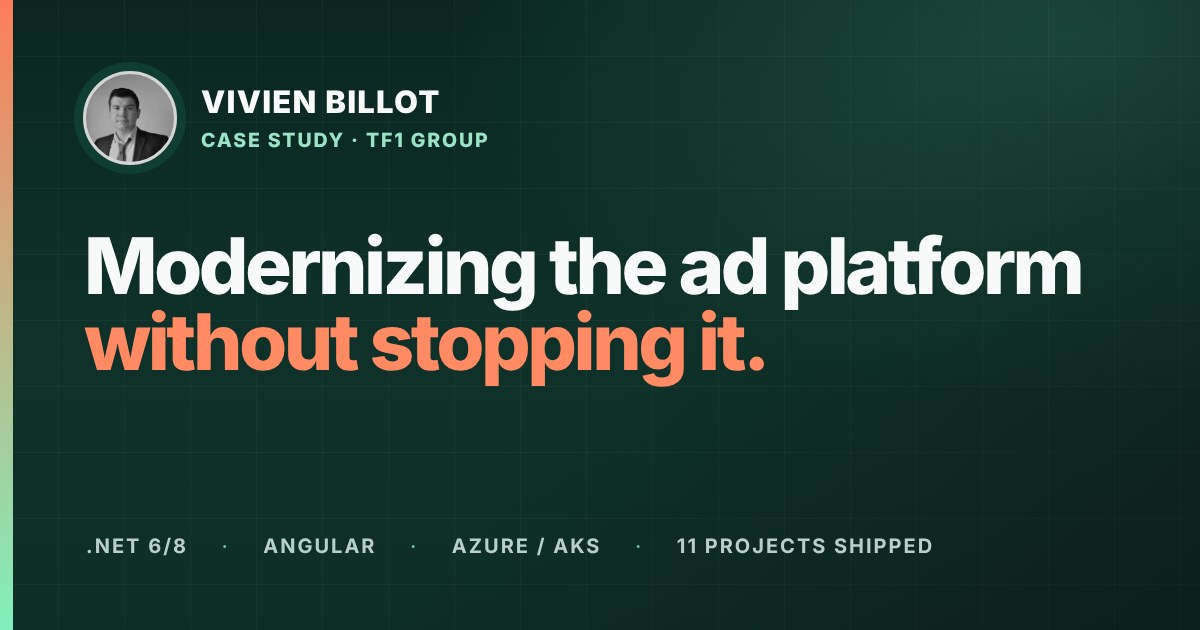
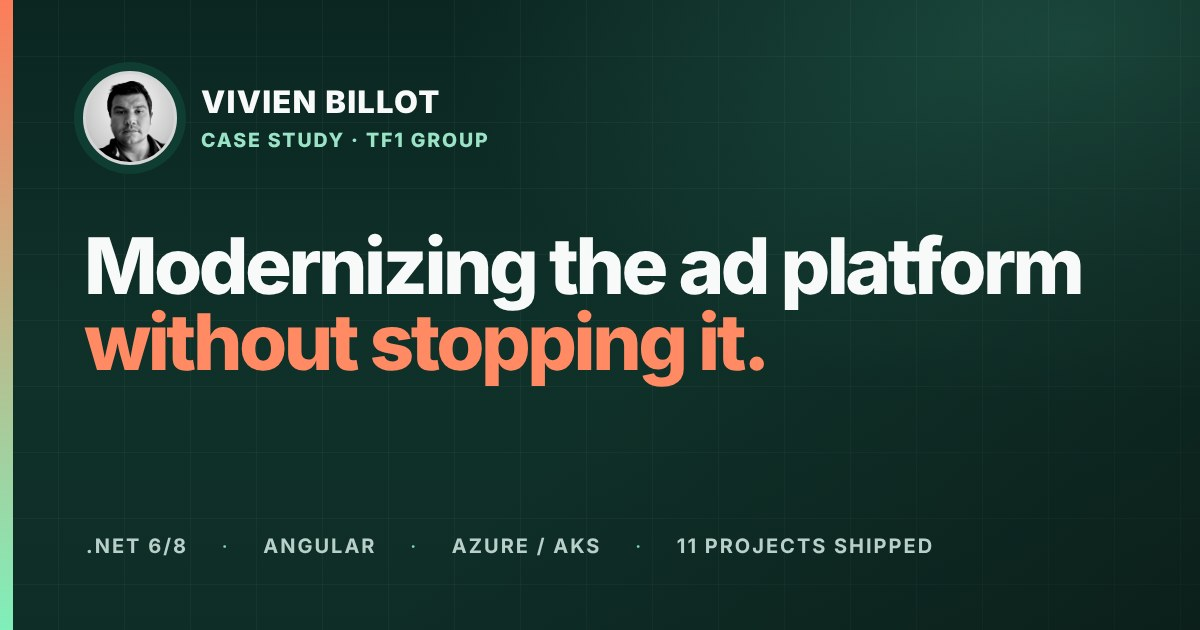
New photo, freelance answers in the assistant, accurate experience years
- Site photo and every share image use the current studio portrait; the
  French home page gets its own share image (og-image-fr.jpg).
- The assistant answers availability, day-rate and location questions with a
  fixed reply (freelance, on a mission at Betclic, rate discussed by email,
  Paris region, hybrid or remote) and the model's profile now states it.
- Keyword matching is word-aware: "details about TF1" no longer returns the
  contact card, and "domain" no longer triggers the AI answer.
- "15+ years" becomes "since 2012" / "14+" (first engineering role in 2012).
- The English page shows the phone number in international format.
- Regenerate the CV PDFs.

Claude-Session: https://claude.ai/code/session_01MTGZCdJkTqEGeZ6CWYWoz6

Changed region(s): [[0.0617, 0.1206, 0.1542, 0.2714]]

diff --git a/src/app/core/application/portfolio-assistant.ts b/src/app/core/application/portfolio-assistant.ts
@@ -19,6 +19,60 @@ const CONTACT_REPLY = `Vous pouvez me joindre par email à ${PORTFOLIO_CONTACT.e
 
 const ENGLISH_CONTACT_REPLY = `You can reach me by email at ${PORTFOLIO_CONTACT.email}, by phone on ${PORTFOLIO_CONTACT.phone}, or through LinkedIn. Use the links in the site’s Contact section to message or call me.`;
 
+const FREELANCE_REPLY = `Je suis Senior Software Engineer & Tech Lead freelance (C#/.NET), actuellement en mission chez Betclic. Pour une future mission, écrivez-moi à ${PORTFOLIO_CONTACT.email} avec le contexte, la durée et la date de démarrage souhaitée. Mon TJM dépend du périmètre et du format de la mission : je le précise par email. Je suis basé en Île-de-France, ouvert à l’hybride et au télétravail.`;
+
+const ENGLISH_FREELANCE_REPLY = `I am a freelance Senior Software Engineer & Tech Lead (C#/.NET), currently on a mission with Betclic. For a future mission, email me at ${PORTFOLIO_CONTACT.email} with the context, duration, and preferred start date. My day rate depends on the scope and format of the mission; I share it by email. I am based in the Paris region (France), open to hybrid and remote work.`;
+
+const CONTACT_TERMS = [
+  'contact',
+  'email',
+  'mail',
+  'telephone',
+  'phone',
+  'joindre',
+  'coordonnees',
+  'reach',
+];
+
+const FREELANCE_TERMS = [
+  'freelance',
+  'free lance',
+  'independant',
+  'tjm',
+  'taux journalier',
+  'tarif',
+  'daily rate',
+  'day rate',
+  'your rate',
+  'es tu disponible',
+  'etes vous disponible',
+  'tu es disponible',
+  'vous etes disponible',
+  'est il disponible',
+  'ta disponibilite',
+  'votre disponibilite',
+  'sa disponibilite',
+  'disponible pour',
+  'are you available',
+  'is he available',
+  'your availability',
+  'his availability',
+  'available for',
+  'teletravail',
+  'full remote',
+  'remote work',
+  'work remotely',
+  'hybrid work',
+  'en hybride',
+  'where are you based',
+  'ou es tu base',
+  'ou etes vous base',
+  'ou habites tu',
+  'based in',
+];
+
+const COMPANY_TERMS = ['betclic', 'tf1', 'rent a car', 'stago', 'bentley'];
+
 const INJECTION_PATTERNS = [
   /ignore\s+(les|toutes|mes|tes|vos)?\s*(instructions|consignes)/u,
   /oublie\s+(les|toutes|mes|tes|vos)?\s*(instructions|consignes)/u,
@@ -267,6 +321,8 @@ export function buildPortfolioKnowledge(portfolio: Portfolio): string {
       languages: ['Français : langue maternelle', 'Anglais : capacité professionnelle'],
       education:
         'Diplôme d’ingénieur ESILV, option calcul scientifique (2007–2012), avec un échange à l’Université Laval.',
+      status: 'Freelance, en mission chez Betclic depuis octobre 2025',
+      workPreferences: 'Île-de-France (région parisienne), hybride ou télétravail',
     },
     contact: PORTFOLIO_CONTACT,
     portfolio,
@@ -295,6 +351,10 @@ export class PortfolioAssistant {
 
     if (isContactQuestion(normalizedQuestion)) {
       return { answer: this.contactReply() };
+    }
+
+    if (isFreelanceQuestion(normalizedQuestion)) {
+      return { answer: this.locale === 'en' ? ENGLISH_FREELANCE_REPLY : FREELANCE_REPLY };
     }
 
     if (!isPortfolioQuestion(normalizedQuestion)) {
@@ -414,17 +474,19 @@ function sanitizeMessages(messages: readonly AssistantMessage[]): readonly Assis
 }
 
 function isContactQuestion(question: string): boolean {
-  return [
-    'contact',
-    'email',
-    'mail',
-    'telephone',
-    'phone',
-    'joindre',
-    'coordonnees',
-    'reach',
-    'details',
-  ].some((term) => question.includes(term));
+  return CONTACT_TERMS.some((term) => startsWord(question, term));
+}
+
+function isFreelanceQuestion(question: string): boolean {
+  return (
+    FREELANCE_TERMS.some((term) => startsWord(question, term)) &&
+    !COMPANY_TERMS.some((term) => startsWord(question, term))
+  );
+}
+
+/** True when `term` appears at the start of a word, so "contact" matches "contacter" but not "details". */
+function startsWord(question: string, term: string): boolean {
+  return ` ${question}`.includes(` ${term}`);
 }
 
 function isAgeQuestion(question: string): boolean {

diff --git a/src/app/features/portfolio/portfolio-page.copy.ts b/src/app/features/portfolio/portfolio-page.copy.ts
@@ -111,6 +111,7 @@ interface PageCopy {
     readonly emailAction: string;
     readonly cvAction: string;
     readonly phoneAction: string;
+    readonly phoneDisplay: string;
     readonly linkedinAction: string;
   };
   readonly footer: {
@@ -156,7 +157,7 @@ export const PORTFOLIO_PAGE_COPY: Record<PortfolioLocale, PageCopy> = {
       eyebrow: 'Freelance Senior Software Engineer & Tech Lead · C# / .NET',
       title: 'Systems where wrong answers',
       accent: 'are expensive.',
-      lead: 'For 15+ years, I’ve designed and modernized critical systems: real-time pricing at Betclic, advertising at TF1 — France’s largest private broadcaster — and regulated medical software at Stago. From business rules to production, helping teams own what they build.',
+      lead: 'Since 2012, I’ve designed and modernized critical systems: real-time pricing at Betclic, advertising at TF1 — France’s largest private broadcaster — and regulated medical software at Stago. From business rules to production, helping teams own what they build.',
       primaryAction: 'Read the case studies',
       secondaryAction: 'Let’s talk',
       proof: [
@@ -179,7 +180,7 @@ export const PORTFOLIO_PAGE_COPY: Record<PortfolioLocale, PageCopy> = {
     metricsLabel: 'Selected impact',
     metrics: [
       {
-        value: '15+',
+        value: '14+',
         label: 'years of engineering, from regulated medical software to real-time pricing',
       },
       { value: '11', label: 'projects shipped to production while leading three teams at TF1' },
@@ -321,6 +322,7 @@ export const PORTFOLIO_PAGE_COPY: Record<PortfolioLocale, PageCopy> = {
       emailAction: 'Email Vivien',
       cvAction: 'Download resume',
       phoneAction: 'Call Vivien Billot at +33 6 23 85 77 32',
+      phoneDisplay: '+33 6 23 85 77 32',
       linkedinAction: 'View LinkedIn profile',
     },
     footer: {
@@ -366,7 +368,7 @@ export const PORTFOLIO_PAGE_COPY: Record<PortfolioLocale, PageCopy> = {
       eyebrow: 'Senior Software Engineer & Tech Lead freelance · C# / .NET',
       title: 'Des systèmes où l’erreur',
       accent: 'coûte cher.',
-      lead: '15+ ans à concevoir et moderniser des systèmes critiques : pricing temps réel chez Betclic, SI publicitaire de TF1 — premier diffuseur privé français — et logiciel médical réglementé chez Stago. Du métier à la production, avec des équipes autonomes.',
+      lead: 'Depuis 2012, je conçois et modernise des systèmes critiques : pricing temps réel chez Betclic, SI publicitaire de TF1 — premier diffuseur privé français — et logiciel médical réglementé chez Stago. Du métier à la production, avec des équipes autonomes.',
       primaryAction: 'Lire les études de cas',
       secondaryAction: 'Parlons-en',
       proof: [
@@ -388,7 +390,7 @@ export const PORTFOLIO_PAGE_COPY: Record<PortfolioLocale, PageCopy> = {
     },
     metricsLabel: 'Impact sélectionné',
     metrics: [
-      { value: '15+', label: 'années d’ingénierie, du médical réglementé au pricing temps réel' },
+      { value: '14+', label: 'années d’ingénierie, du médical réglementé au pricing temps réel' },
       { value: '11', label: 'projets mis en production en encadrant trois équipes chez TF1' },
       { value: '500+', label: 'agences servies par les plateformes construites chez Rent A Car' },
       { value: '5', label: 'équipes encadrées chez TF1, Rent A Car et Stago' },
@@ -529,6 +531,7 @@ export const PORTFOLIO_PAGE_COPY: Record<PortfolioLocale, PageCopy> = {
       emailAction: 'Envoyer un email',
       cvAction: 'Télécharger le CV',
       phoneAction: 'Appeler Vivien Billot au 06 23 85 77 32',
+      phoneDisplay: '06 23 85 77 32',
       linkedinAction: 'Voir le profil LinkedIn',
     },
     footer: {

diff --git a/src/app/core/application/portfolio-assistant.spec.ts b/src/app/core/application/portfolio-assistant.spec.ts
@@ -113,6 +113,41 @@ describe('PortfolioAssistant', () => {
     expect(gateway.answer).not.toHaveBeenCalled();
   });
 
+  it('answers freelance availability and rate questions without calling the model', async () => {
+    const { assistant, gateway } = createAssistant();
+
+    const reply = await assistant.reply([
+      { role: 'user', content: 'Es-tu disponible pour une mission freelance ? Quel est ton TJM ?' },
+    ]);
+
+    expect(reply.answer).toContain('freelance');
+    expect(reply.answer).toContain('TJM');
+    expect(reply.answer).toContain('billot.vivien@gmail.com');
+    expect(gateway.answer).not.toHaveBeenCalled();
+  });
+
+  it('answers English location and day-rate questions deterministically', async () => {
+    const gateway: AssistantGateway = { answer: vi.fn() };
+    const knowledge = buildPortfolioKnowledge(new LocalPortfolioRepository().getPortfolio('en'));
+    const assistant = new PortfolioAssistant(gateway, knowledge, 'en');
+
+    const reply = await assistant.reply([
+      { role: 'user', content: 'Where are you based, and what is your day rate?' },
+    ]);
+
+    expect(reply.answer).toContain('Paris region');
+    expect(reply.answer).toContain('day rate');
+    expect(gateway.answer).not.toHaveBeenCalled();
+  });
+
+  it('keeps questions asking for details about a role with the model', async () => {
+    const { assistant, gateway } = createAssistant();
+
+    await assistant.reply([{ role: 'user', content: 'Give me more details about TF1' }]);
+
+    expect(gateway.answer).toHaveBeenCalledOnce();
+  });
+
   it('answers age questions deterministically from the verified birth date', async () => {
     const { assistant, gateway } = createAssistant();
 

diff --git a/src/app/core/infrastructure/profile-fallback.gateway.ts b/src/app/core/infrastructure/profile-fallback.gateway.ts
@@ -321,11 +321,16 @@ export class ProfileFallbackGateway implements AssistantGateway {
   answer(request: AssistantGatewayRequest): Promise<string> {
     const question = normalize(request.messages.at(-1)?.content ?? '');
     const answer = ANSWERS[this.locale].find(({ terms }) =>
-      terms.some((term) => question.includes(term)),
+      terms.some((term) => mentions(question, term)),
     )?.answer;
 
     return Promise.resolve(answer ?? DEFAULT_ANSWERS[this.locale]);
   }
+}
+
+/** Short terms such as "ai" or "ia" must be whole words: "domain" is not a question about AI. */
+function mentions(question: string, term: string): boolean {
+  return term.length <= 3 ? ` ${question} `.includes(` ${term} `) : question.includes(term);
 }
 
 function normalize(value: string): string {

diff --git a/src/app/features/portfolio/portfolio-page.component.html b/src/app/features/portfolio/portfolio-page.component.html
@@ -89,7 +89,7 @@
     <aside class="signal-card reveal reveal-3" [attr.aria-label]="copy.hero.profileLabel">
       <div class="card-top">
         <p>{{ copy.hero.profileLabel }}</p>
-        <span>15+</span>
+        <span>14+</span>
       </div>
       <div class="profile-snapshot">
         <p>{{ copy.hero.profileTitle }}</p>
@@ -383,7 +383,7 @@
           href="tel:+33623857732"
           (click)="analytics.track('contact_click', { channel: 'phone', placement: 'contact' })"
           [attr.aria-label]="copy.contact.phoneAction"
-          >06 23 85 77 32</a
+          >{{ copy.contact.phoneDisplay }}</a
         >
         <a
           class="contact-link"

diff --git a/src/app/core/infrastructure/profile-fallback.gateway.spec.ts b/src/app/core/infrastructure/profile-fallback.gateway.spec.ts
@@ -13,6 +13,17 @@ describe('ProfileFallbackGateway', () => {
     ).resolves.toContain('skills, commandes, agents');
   });
 
+  it('does not mistake words containing "ai" for a question about AI', async () => {
+    const gateway = new ProfileFallbackGateway('en');
+
+    await expect(
+      gateway.answer({
+        instructions: 'ignored by the deterministic fallback',
+        messages: [{ role: 'user', content: 'Explain your domain expertise' }],
+      }),
+    ).resolves.not.toContain('Claude Code');
+  });
+
   it('lists the technology stack in a structured way', async () => {
     const gateway = new ProfileFallbackGateway();
 

diff --git a/docs/cv/cv-fr.html b/docs/cv/cv-fr.html
@@ -42,7 +42,7 @@
             <li>ROI durable</li>
           </ul>
           <ul class="evidence" aria-label="Résultats clés">
-            <li><strong>15+ ans</strong>de progression continue jusqu’au rôle de Tech Lead</li>
+            <li><strong>14+ ans</strong>de progression continue jusqu’au rôle de Tech Lead</li>
             <li>
               <strong>Quant</strong>probabilités propriétaires, Monte-Carlo et maîtrise des cotes
             </li>

diff --git a/docs/cv/cv-en.html b/docs/cv/cv-en.html
@@ -44,7 +44,7 @@
             <li>Durable ROI</li>
           </ul>
           <ul class="evidence" aria-label="Key results">
-            <li><strong>15+ years</strong>of continuous progression up to Tech Lead roles</li>
+            <li><strong>14+ years</strong>of continuous progression up to Tech Lead roles</li>
             <li>
               <strong>Quant</strong>proprietary probabilities, Monte Carlo and controlled odds
             </li>

diff --git a/src/app/features/portfolio/portfolio-page.component.ts b/src/app/features/portfolio/portfolio-page.component.ts
@@ -70,6 +70,7 @@ export class PortfolioPageComponent {
       path,
       locale: this.locale,
       ogType: 'profile',
+      image: this.locale === 'fr' ? '/og-image-fr.jpg' : '/og-image.jpg',
       alternates: [
         { hreflang: 'en', path: '/' },
         { hreflang: 'fr', path: '/fr' },
